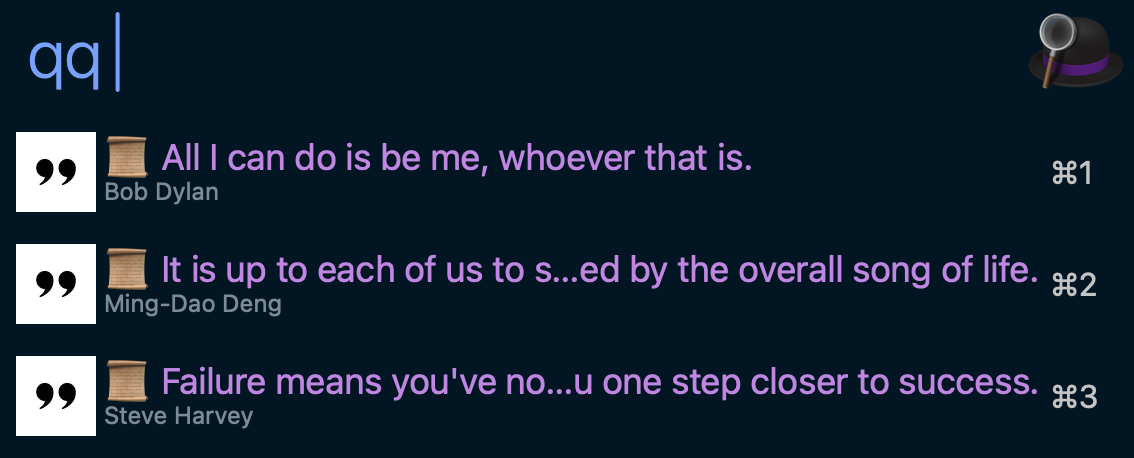
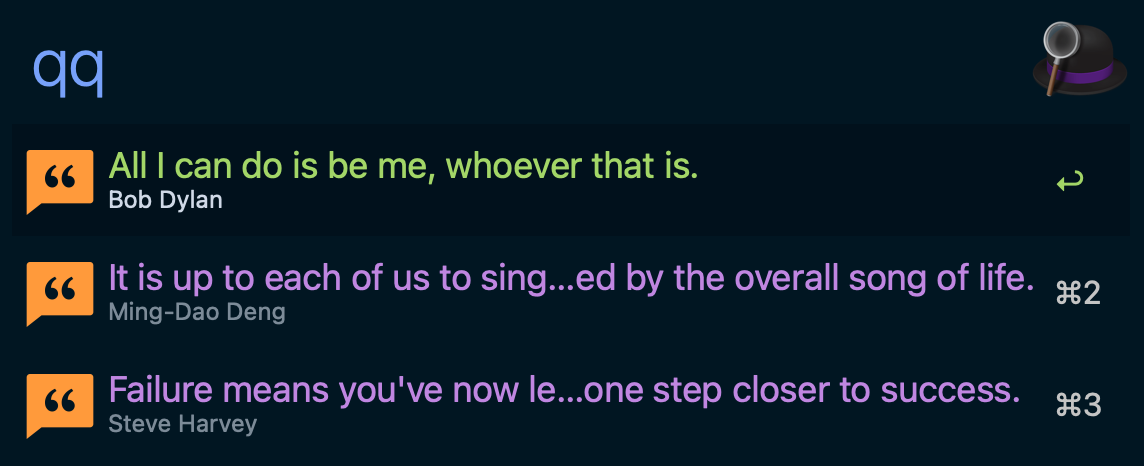
fix(quote-cli): drop emoji prefix from titles
- Remove TITLE emoji prefix so quotes match copy action
- Refresh WORKFLOWS assets to reflect updated UI

diff --git a/crates/quote-cli/src/feedback.rs b/crates/quote-cli/src/feedback.rs
@@ -1,7 +1,6 @@
 use alfred_core::{Feedback, Item};
 
 const ITEM_SUBTITLE: &str = "Press Enter to copy quote.";
-const QUOTE_PREFIX: &str = "📜 ";
 const EMPTY_CACHE_TITLE: &str = "No quotes cached yet";
 const EMPTY_CACHE_SUBTITLE: &str = "Refresh will run automatically; retry shortly.";
 const NO_MATCH_TITLE: &str = "No quotes match query";
@@ -34,7 +33,7 @@ pub fn quotes_to_feedback(
         let subtitle = author_name.unwrap_or(ITEM_SUBTITLE);
 
         items.push(
-            Item::new(format!("{QUOTE_PREFIX}{quote_text}"))
+            Item::new(quote_text)
                 .with_subtitle(subtitle)
                 .with_arg(quote_text)
                 .with_valid(true),
@@ -122,7 +121,7 @@ mod tests {
         let feedback = quotes_to_feedback(&fixture_quotes(), 2, "", None);
 
         assert_eq!(feedback.items.len(), 2);
-        assert_eq!(feedback.items[0].title, "📜 fortune favors the bold");
+        assert_eq!(feedback.items[0].title, "fortune favors the bold");
         assert_eq!(feedback.items[0].subtitle.as_deref(), Some("virgil"));
         assert_eq!(
             feedback.items[0].arg.as_deref(),
@@ -131,7 +130,7 @@ mod tests {
 
         assert_eq!(
             feedback.items[1].title,
-            "📜 simplicity is the soul of efficiency"
+            "simplicity is the soul of efficiency"
         );
         assert_eq!(
             feedback.items[1].subtitle.as_deref(),
@@ -148,7 +147,7 @@ mod tests {
         let feedback = quotes_to_feedback(&fixture_quotes(), 5, "FORTUNE", None);
 
         assert_eq!(feedback.items.len(), 1);
-        assert_eq!(feedback.items[0].title, "📜 fortune favors the bold");
+        assert_eq!(feedback.items[0].title, "fortune favors the bold");
         assert_eq!(feedback.items[0].subtitle.as_deref(), Some("virgil"));
     }
 
@@ -157,7 +156,7 @@ mod tests {
         let feedback = quotes_to_feedback(&["“hello world” — tester".to_string()], 5, "", None);
 
         assert_eq!(feedback.items.len(), 1);
-        assert_eq!(feedback.items[0].title, "📜 hello world");
+        assert_eq!(feedback.items[0].title, "hello world");
         assert_eq!(feedback.items[0].arg.as_deref(), Some("hello world"));
     }
 
@@ -166,7 +165,7 @@ mod tests {
         let feedback = quotes_to_feedback(&["quote only".to_string()], 5, "", None);
 
         assert_eq!(feedback.items.len(), 1);
-        assert_eq!(feedback.items[0].title, "📜 quote only");
+        assert_eq!(feedback.items[0].title, "quote only");
         assert_eq!(feedback.items[0].subtitle.as_deref(), Some(ITEM_SUBTITLE));
         assert_eq!(feedback.items[0].arg.as_deref(), Some("quote only"));
     }

diff --git a/crates/quote-cli/src/main.rs b/crates/quote-cli/src/main.rs
@@ -163,7 +163,7 @@ mod tests {
 
         assert_eq!(
             first.get("title").and_then(Value::as_str),
-            Some("📜 stay hungry")
+            Some("stay hungry")
         );
         assert_eq!(
             first.get("subtitle").and_then(Value::as_str),
